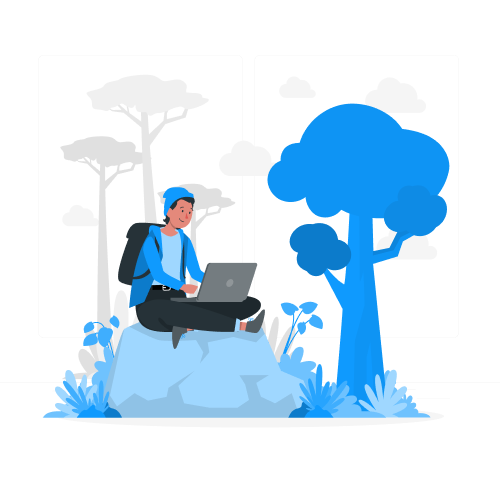
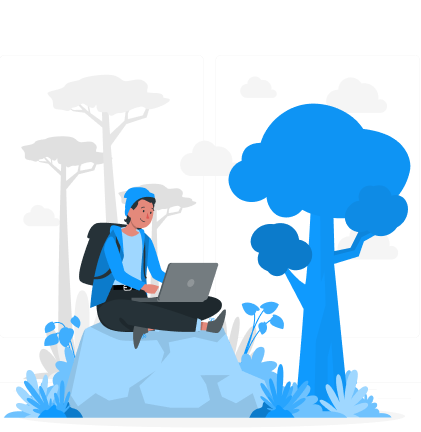
responsive section

diff --git a/src/components/Header/index.tsx b/src/components/Header/index.tsx
@@ -31,15 +31,15 @@ export const Header = () => {
         </div>
       </div>
       <section className="container-fluid bg-whiter-200">
-        <div className="container min-h-[640px] bg-[url('/assets/image/bgHeader.png')] bg-no-repeat bg-[center_right]">
-          <div className="container-left w-1/2 font-['Sora'] font-bold text-grayr-300 flex items-start justify-center flex-col">
-            <p className="text-5xl mb-[50px] leading-60">
+        <div className="container md:min-h-[640px] min-h-[387px] bg-[url('/assets/image/bgHeader.png')] bg-no-repeat md:bg-[center_right] bg-[center_bottom] bg-contain">
+          <div className="container-left md:w-1/2 font-['Sora'] font-bold text-grayr-300 flex items-start lg:justify-center justify-start  pt-10 px-3 flex-col">
+            <p className="md:text-5xl text-2xl md:mb-12 mb-4 md:leading-60 leading-30">
               Rachi, <br />
               é tudo que você
               <br />
               precisa em um só lugar.
             </p>
-            <button className="button font-bold rounded-full bg-bluer text-whiter-100 px-9 py-4 text-xl">
+            <button className="button font-bold rounded-full bg-bluer text-whiter-100 md:px-9 md:py-4 py-2 px-6 md:text-xl text-sm">
               <span>Cadastrar-se</span>
             </button>
           </div>

diff --git a/tailwind.config.js b/tailwind.config.js
@@ -18,7 +18,8 @@ module.exports = {
     },
     lineHeight: {
       'extra-loose': '2.5',
-      60: '3.75rem'
+      60: '3.75rem',
+      30: '1.875rem',
     },
     extend: {}
   },
